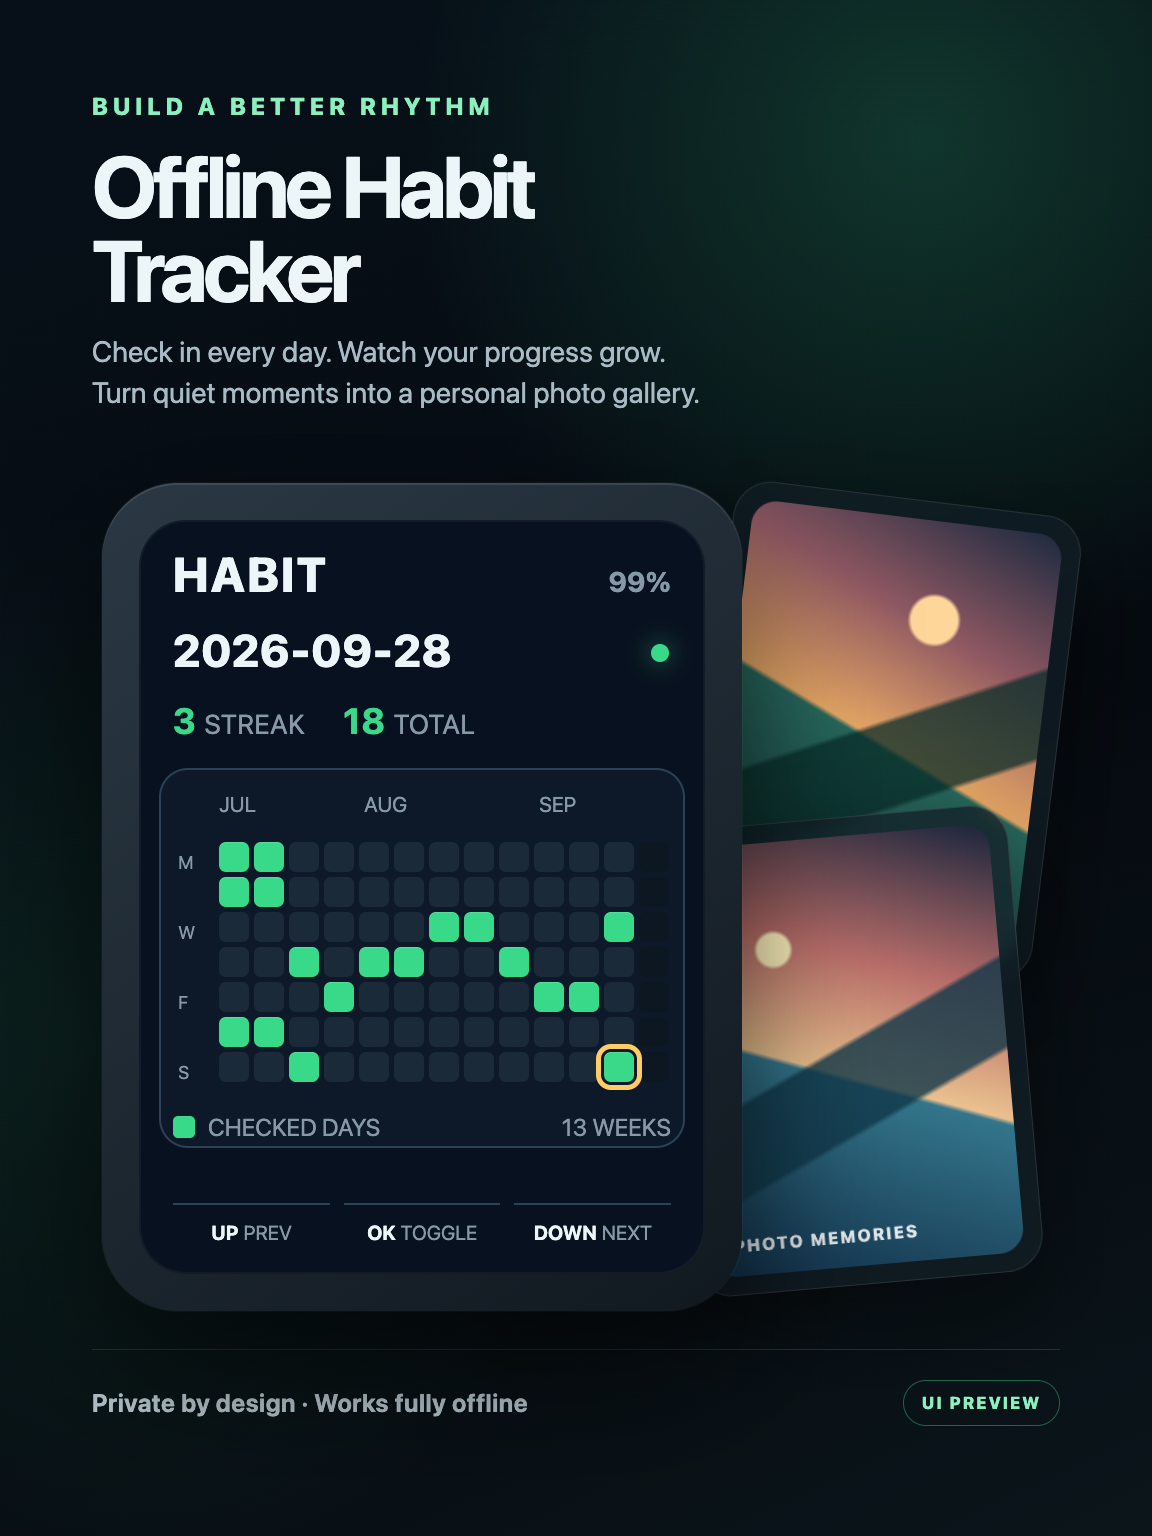
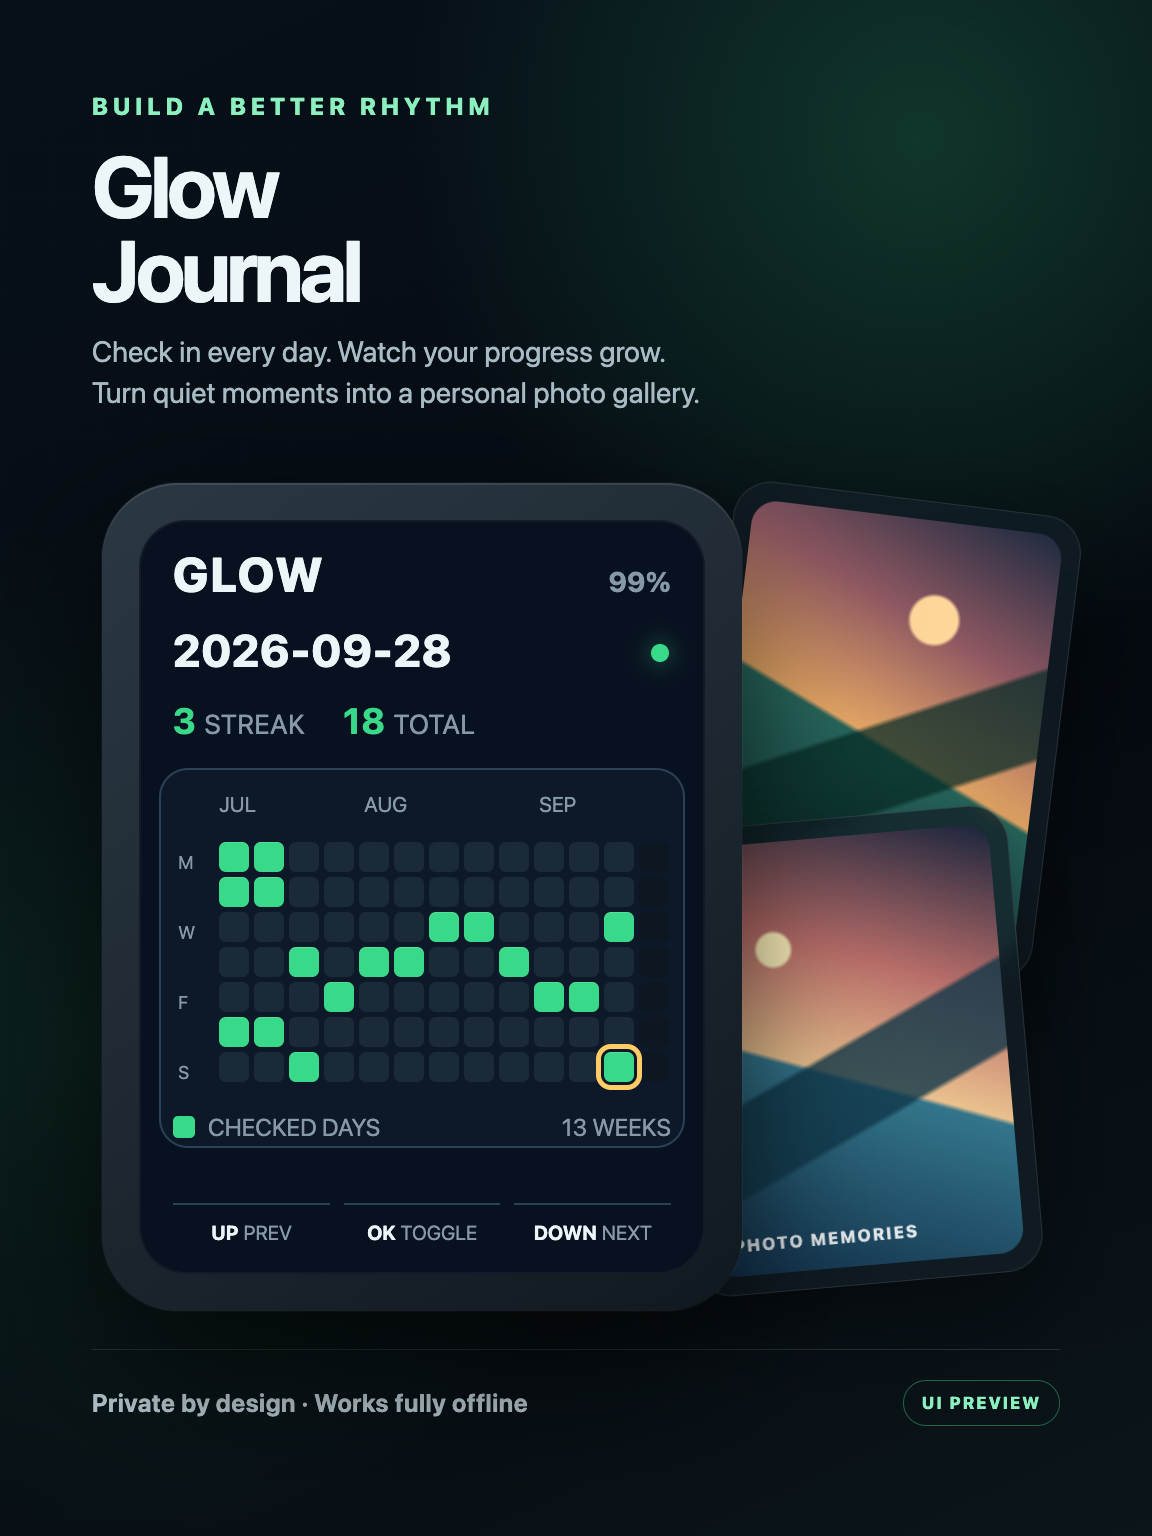
feat(habit-tracker): rename app to Glow Journal

Changed region(s): [[0.0625, 0.0938, 0.4688, 0.2188], [0.1562, 0.3438, 0.2812, 0.4062]]

diff --git a/apps/offline-habit-tracker/main/habit_app.c b/apps/offline-habit-tracker/main/habit_app.c
@@ -208,7 +208,7 @@ static void build_heatmap(void)
     s_screen_kind = SCREEN_HEATMAP;
     s_last_activity = lv_tick_get();
     s_grid_start = habit_grid_start(s_page_anchor, GRID_WEEKS);
-    lv_obj_t *screen = base_screen("HABIT");
+    lv_obj_t *screen = base_screen("GLOW");
     s_selected_label = label(screen, "", 14, 43, &lv_font_montserrat_20, COLOR_TEXT);
     s_streak_label = label(screen, "", 14, 75, &lv_font_montserrat_14, COLOR_ACTIVE);
 

diff --git a/apps/offline-habit-tracker/assets/README.md b/apps/offline-habit-tracker/assets/README.md
@@ -27,7 +27,7 @@ Store reusable source images and generated display assets in `images/`.
 | [`images/readme-hardware-specs.png`](images/readme-hardware-specs.png) | 2172 × 724, PNG RGBA | Optional technical infographic retained as a reference asset; it is no longer used as the homepage hero. Generated for this repository with the built-in image generation tool on 2026-09-17; the six labels and values were checked against the documented hardware contract. |
 | [`images/logo-wordmark.png`](images/logo-wordmark.png) | 1648 × 336, PNG RGBA | Transparent black wordmark extracted from the repository's original `images/logo.png`; embedded in both project README files for light backgrounds. |
 | [`images/logo-wordmark-dark.png`](images/logo-wordmark-dark.png) | 1648 × 336, PNG RGBA | White version of the extracted wordmark, used by the README `<picture>` element when GitHub is in dark mode. |
-| [`images/offline-habit-tracker-cover.png`](images/offline-habit-tracker-cover.png) | 1152 × 1536, PNG RGB | 3:4 community-market cover for Offline Habit Tracker. It is a clearly labeled UI preview composed from the approved heatmap layout and abstract photo cards; it was rendered locally from project-authored HTML/CSS on 2026-09-29 and contains no third-party or personal media. |
+| [`images/offline-habit-tracker-cover.png`](images/offline-habit-tracker-cover.png) | 1152 × 1536, PNG RGB | 3:4 community-market cover for Glow Journal. It is a clearly labeled UI preview composed from the approved heatmap layout and abstract photo cards; it was rendered locally from project-authored HTML/CSS on 2026-09-29 and contains no third-party or personal media. |
 
 - Use descriptive names and document dimensions, pixel format, conversion steps, and destination.
 - Prefer formats suitable for the 240 × 320 RGB565 display and account for Flash and internal RAM.

diff --git a/apps/offline-habit-tracker/assets/README.zh_CN.md b/apps/offline-habit-tracker/assets/README.zh_CN.md
@@ -25,7 +25,7 @@
 | [`images/readme-hardware-specs.png`](images/readme-hardware-specs.png) | 2172 × 724，PNG RGBA | 保留为可选技术参考图，不再用于首页主视觉。于 2026-09-17 使用内置图像生成工具为本仓库生成；已根据文档中的硬件能力契约核对图中的六项标签与参数。 |
 | [`images/logo-wordmark.png`](images/logo-wordmark.png) | 1648 × 336，PNG RGBA | 从仓库原始 `images/logo.png` 中精确裁切并去除背景的黑色字标；用于中英文项目 README 的浅色主题。 |
 | [`images/logo-wordmark-dark.png`](images/logo-wordmark-dark.png) | 1648 × 336，PNG RGBA | 提取字标的白色版本；README 使用 `<picture>` 在 GitHub 深色主题下显示。 |
-| [`images/offline-habit-tracker-cover.png`](images/offline-habit-tracker-cover.png) | 1152 × 1536，PNG RGB | Offline Habit Tracker 的 3:4 社区市场封面。图片明确标注为 UI 预览，基于已确认的热力图布局与抽象照片卡片制作；于 2026-09-29 使用本项目编写的 HTML/CSS 在本地渲染，不含第三方或个人媒体。 |
+| [`images/offline-habit-tracker-cover.png`](images/offline-habit-tracker-cover.png) | 1152 × 1536，PNG RGB | “微光日记”的 3:4 社区市场封面。图片明确标注为 UI 预览，基于已确认的热力图布局与抽象照片卡片制作；于 2026-09-29 使用本项目编写的 HTML/CSS 在本地渲染，不含第三方或个人媒体。 |
 
 - 使用描述性命名，并记录尺寸、像素格式、转换步骤与目标路径。
 - 优先采用适合 240 × 320 RGB565 显示的格式，并纳入 Flash 与内部 RAM 考量。

diff --git a/apps/offline-habit-tracker/docs/README.md b/apps/offline-habit-tracker/docs/README.md
@@ -210,7 +210,7 @@ provide reference material. Choose the entry that matches your task.
 | [Hardware](hardware-design/README.md) | Board facts, interface boundaries, acceptance checklists, and troubleshooting |
 | [Chinese fonts](development/engineering/lvgl-chinese-fonts.md) | Glyph coverage, widget font selection, and blank-text troubleshooting |
 | [Wi-Fi provisioning](development/engineering/wifi-provisioning.md) | Bluetooth provisioning reference and companion mini program |
-| [Offline habit tracker](habit-tracker.md) | Heatmap controls, local Wi-Fi photo upload, screensaver behavior, and persistent Flash layout |
+| [Glow Journal](habit-tracker.md) | Heatmap controls, local Wi-Fi photo upload, screensaver behavior, and persistent Flash layout |
 | [Community projects and experience](reference/README.md) | Playbooks and reusable knowledge under `docs/reference/<username>/` |
 | [Contributing](contribution/README.md) | Documentation, commits, and pull-request conventions |
 | [Brand assets](brand/README.md) | Product visual references and [brand language](brand/brand-and-product.md) |

diff --git a/apps/offline-habit-tracker/docs/README.zh_CN.md b/apps/offline-habit-tracker/docs/README.zh_CN.md
@@ -204,7 +204,7 @@ LICENSE                  仓库许可证
 | [硬件资料](hardware-design/README.zh_CN.md) | 板卡事实、接口边界、验收清单与排障 |
 | [中文字体](development/engineering/lvgl-chinese-fonts.zh_CN.md) | 字形覆盖、控件字体选择，以及中文空白排查 |
 | [Wi-Fi 配网](development/engineering/wifi-provisioning.zh_CN.md) | 蓝牙配网实现参考与配套小程序 |
-| [离线习惯打卡](habit-tracker.zh_CN.md) | 热力图操作、本地 Wi-Fi 照片上传、屏保行为与持久化 Flash 布局 |
+| [微光日记](habit-tracker.zh_CN.md) | 热力图操作、本地 Wi-Fi 照片上传、屏保行为与持久化 Flash 布局 |
 | [社区作品与经验](reference/README.zh_CN.md) | `docs/reference/<username>/` 下的应用档案和可复用知识 |
 | [参与贡献](contribution/README.zh_CN.md) | 文档、提交与 Pull Request 约定 |
 | [品牌素材](brand/README.zh_CN.md) | 产品视觉参考与[品牌说明](brand/brand-and-product.zh_CN.md) |

diff --git a/apps/offline-habit-tracker/README.md b/apps/offline-habit-tracker/README.md
@@ -2,9 +2,9 @@
   <a href="README.zh_CN.md">简体中文</a> · <strong>English</strong>
 </p>
 
-# Offline Habit Tracker
+# Glow Journal
 
-An offline habit-check-in application for the FoloToy AI Passport. It replaces
+A calm, offline habit journal for the FoloToy AI Passport. It replaces
 the official hardware-test menu with a dedicated 240 × 320 interface featuring
 a GitHub-style daily contribution heatmap, persistent check-ins, phone-based
 photo management, and an automatic photo screensaver.

diff --git a/apps/offline-habit-tracker/README.zh_CN.md b/apps/offline-habit-tracker/README.zh_CN.md
@@ -2,9 +2,9 @@
   <strong>简体中文</strong> · <a href="README.md">English</a>
 </p>
 
-# 离线习惯打卡
+# 微光日记
 
-这是一个面向 FoloToy AI Passport 的离线习惯打卡应用。它不再使用官方硬件
+这是一个面向 FoloToy AI Passport 的安静、离线习惯日记。它不再使用官方硬件
 测试菜单，而是提供专门设计的 240 × 320 界面，包括 GitHub 风格的每日热力图、
 掉电保存打卡、手机照片管理和自动照片屏保。
 

diff --git a/apps/offline-habit-tracker/docs/habit-tracker.zh_CN.md b/apps/offline-habit-tracker/docs/habit-tracker.zh_CN.md
@@ -2,7 +2,7 @@
   <strong>简体中文</strong> · <a href="habit-tracker.md">English</a>
 </p>
 
-# 离线习惯打卡
+# 微光日记
 
 习惯打卡是一个独立的 240 × 320 应用。它用 GitHub 风格的 13 周每日热力图
 彻底替换硬件测试菜单，并让打卡记录和用户照片在掉电后仍然保留。

diff --git a/apps/offline-habit-tracker/docs/habit-tracker.md b/apps/offline-habit-tracker/docs/habit-tracker.md
@@ -2,7 +2,7 @@
   <a href="habit-tracker.zh_CN.md">简体中文</a> · <strong>English</strong>
 </p>
 
-# Offline Habit Tracker
+# Glow Journal
 
 The habit tracker is a standalone 240 × 320 application. It replaces the
 hardware-test menu with a GitHub-style 13-week daily heatmap and stores both
